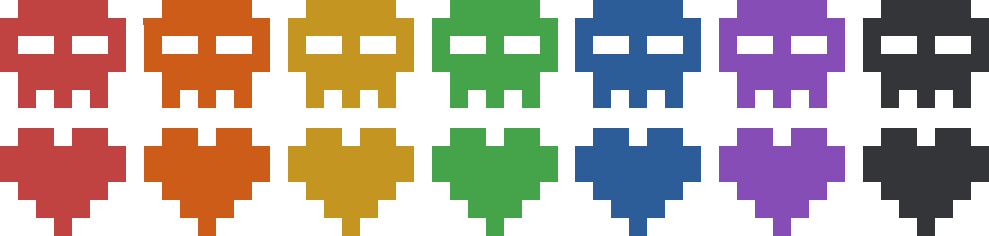
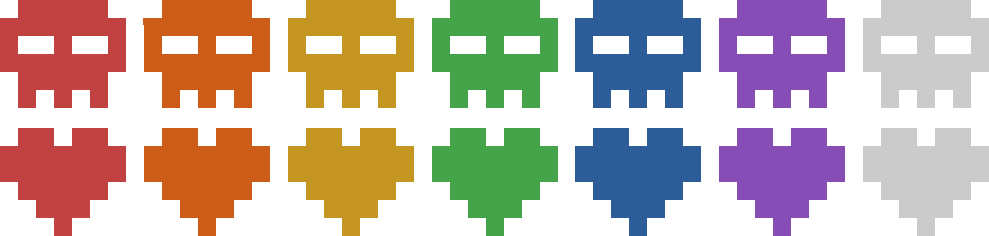
updated hearts gui

Changed region(s): [[0.8493, 0.0, 1.0, 0.4746], [0.8493, 0.5339, 1.0, 1.0]]

diff --git a/Assets/Scripts/player.cs b/Assets/Scripts/player.cs
@@ -1,5 +1,6 @@
-using UnityEngine;
-using System;
+using System;
+using UnityEngine;
+using UnityEngine.UI;
 using System.Collections;
 using System.Collections.Generic;
 
@@ -10,6 +11,7 @@ public class player : MonoBehaviour{
 	public string player_color;
 	public int lives = 3;
 	public bool dead = false;
+  public GameObject[] hearts;
 
 	// orientation
 	public enum orientation{up, down, left, right};
@@ -29,7 +31,7 @@ public class player : MonoBehaviour{
 	public GameObject up_slash;
 	public GameObject down_slash;
 	public GameObject shield;
-    public GameObject poisonGO;
+  public GameObject poisonGO;
 
 	// movement information
 	Rigidbody2D body;
@@ -55,7 +57,7 @@ public class player : MonoBehaviour{
 	public GameObject bullet;
 	GameObject bullet_instance;
 	public float shotVelocity = 5f, numBullets = 1;
-    public float fireRate = 1f;
+  public float fireRate = 1f;
 	float nextFire = 0f, bulletCreationDist = 0.25f;
 	string lastDirection = "right";
 
@@ -75,11 +77,23 @@ public class player : MonoBehaviour{
 	numBulletHits = 0, numSwordSwipes = 0, numSwordHits = 0;
 	public List<String> playersKilled;
 
-    //blocking
-    bool swipeBlock = true;
-    float swipeBlockStart = 0f, swipeBlockTime = 0.25f;
+  // blocking
+  bool swipeBlock = true;
+  float swipeBlockStart = 0f, swipeBlockTime = 0.25f;
+  float delay = 0;
 
-    float delay = 0;
+  // hearts/skulls
+  public Sprite[] hearts_skulls;
+
+  // get sprite by name
+  public Sprite get_sprite_by_name(Sprite[]sprites, string sprite_name){
+    for(int i = 0; i < sprites.Length; i++){
+      if(sprites[i].name.Equals(sprite_name)){
+        return sprites[i];
+      }
+    }
+    return null;
+  }
 
 	void Start(){
 		player_animator = GetComponent<Animator>();
@@ -95,9 +109,27 @@ public class player : MonoBehaviour{
 		sound = GetComponent<AudioSource>();
 		jump_speed = thrust;
 		run_speed = speed;
+    hearts_skulls = Resources.LoadAll<Sprite>("hearts_skulls");
+    hearts = new GameObject[10];
+    for(int i = 0; i < 10; ++i){
+      string heart_string = "ui/p" + player_number.ToString() + "/" + player_number.ToString() + "_" + (i + 1).ToString();
+      GameObject current_heart = GameObject.Find(heart_string);
+      current_heart.GetComponent<Image>().sprite = get_sprite_by_name(hearts_skulls, player_color.ToLower() + "_heart");
+      hearts[i] = current_heart;
+    }
 	}
 
 	void Update(){
+
+    // ==[show hearts]==========================================================
+    // =========================================================================
+
+    for(int i = 1; i <= lives; ++i){
+      hearts[i - 1].SetActive(true);
+    }
+    for(int i = lives + 1; i <= 10; ++i){
+      hearts[i - 1].SetActive(false);
+    }
 
 		// ==[gravity swap]=========================================================
 		// =========================================================================
